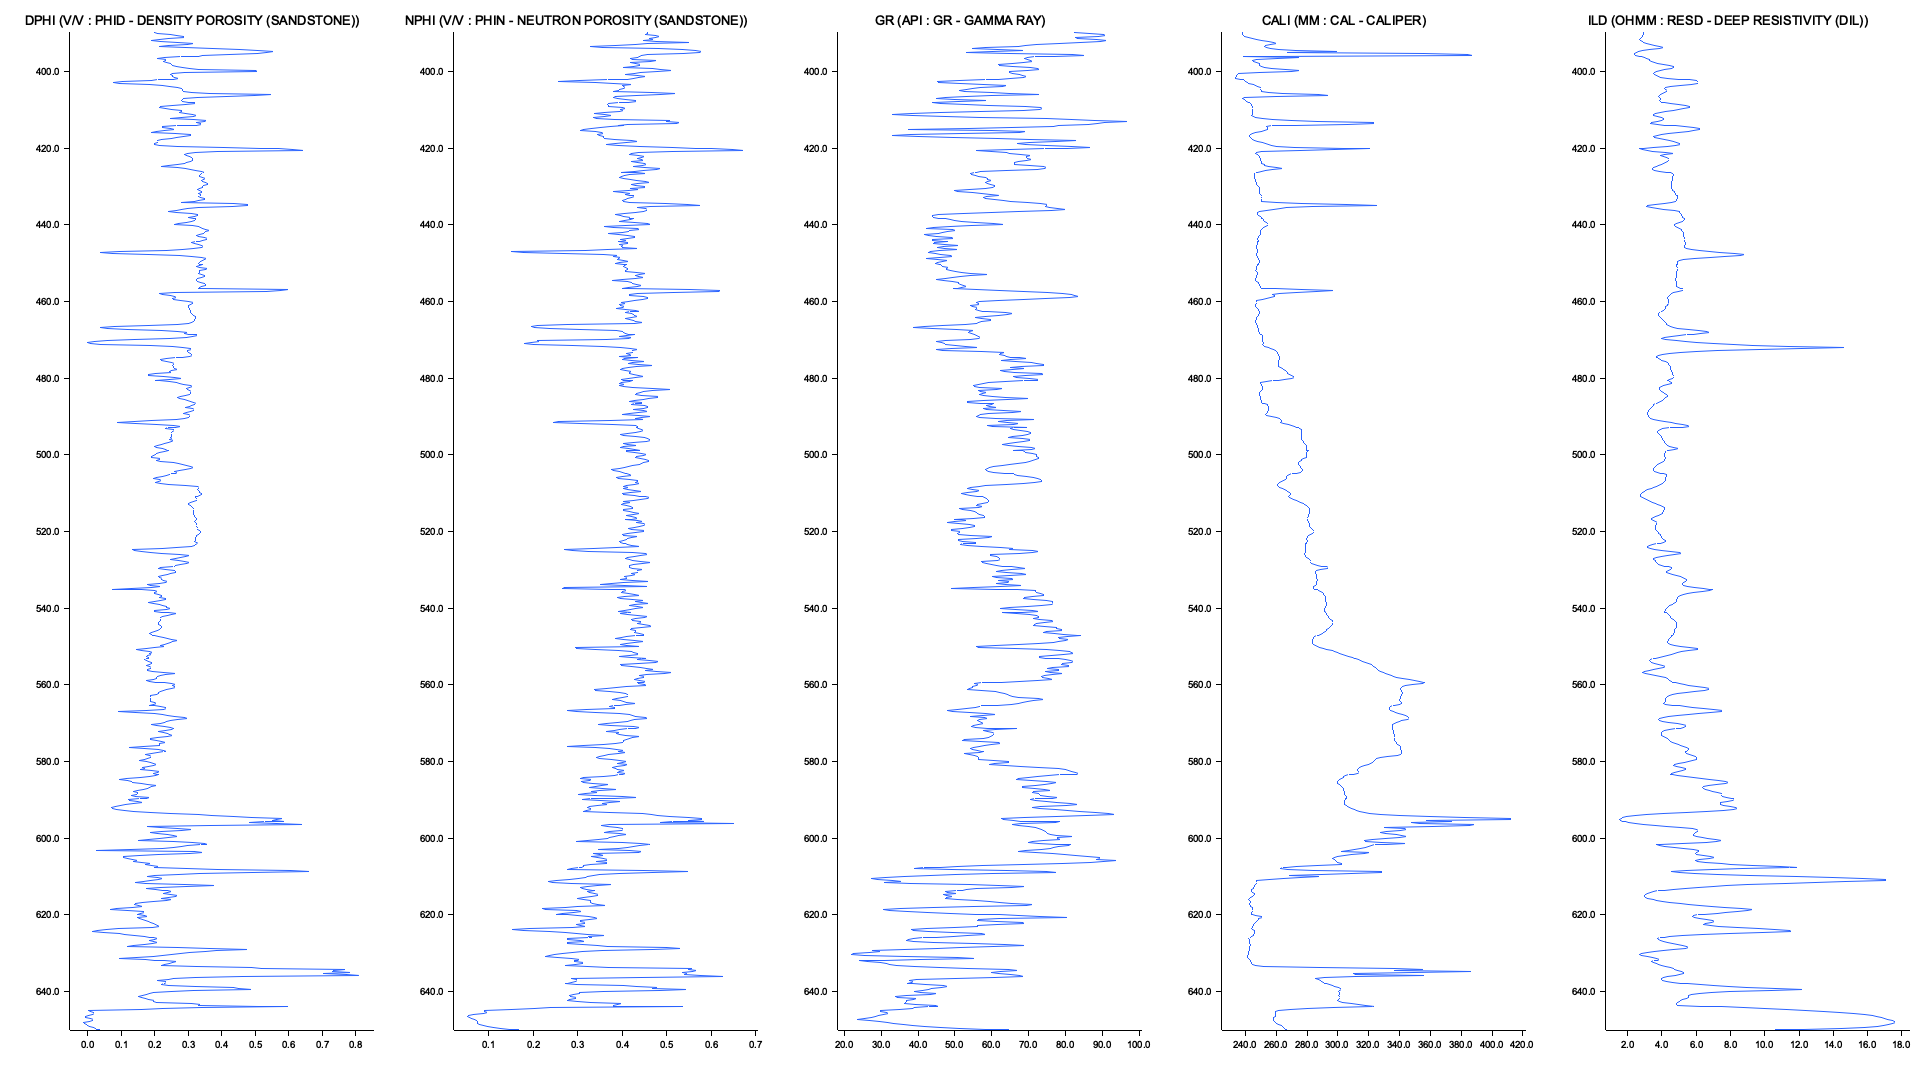
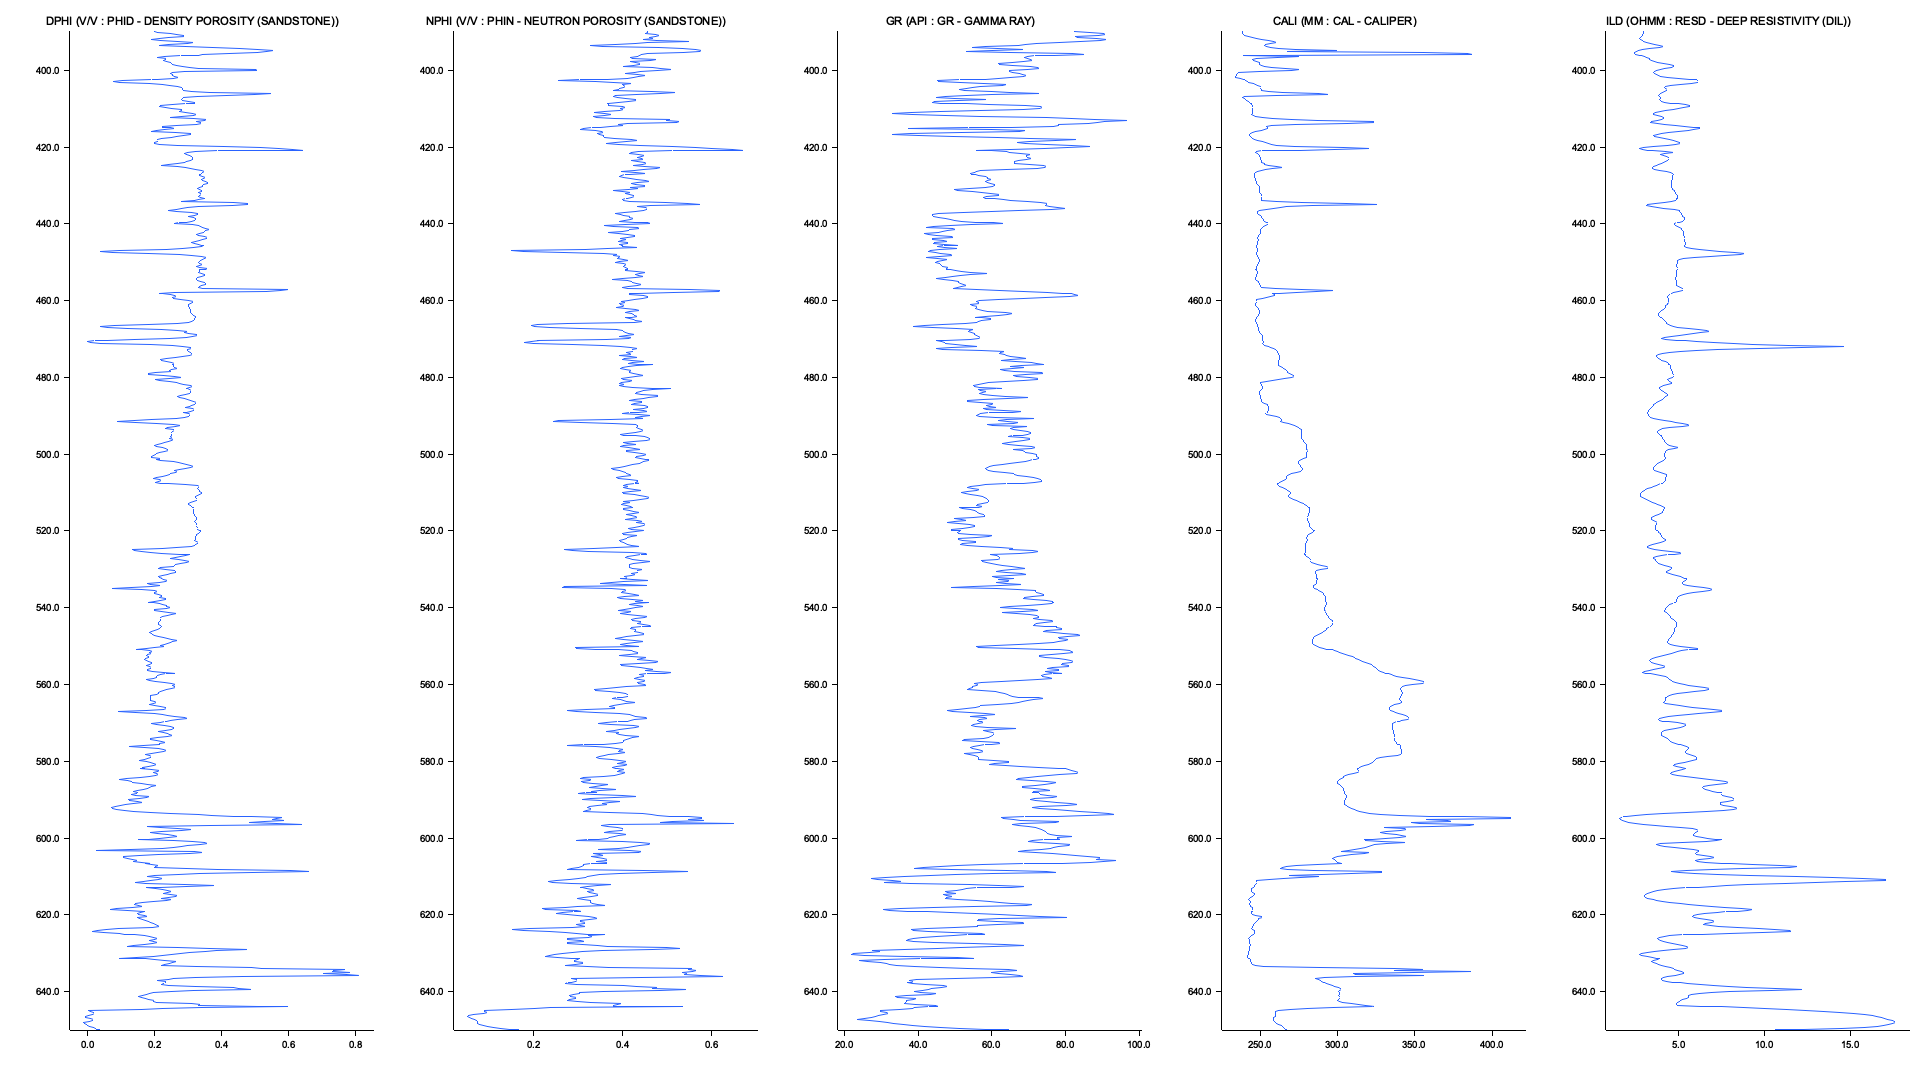
parse comments

diff --git a/src/tests/helpers.rs b/src/tests/helpers.rs
@@ -45,11 +45,13 @@ pub(crate) fn plot_curves(las: &LasFile) -> Vec<PlotCurve> {
                 .find(|c| c.mnemonic == *mnemonic)
                 .and_then(|c| {
                     if c.unit.is_some() && c.description.is_some() {
-                        return Some(format!(
+                        let s = format!(
                             "{} : {}",
                             c.unit.clone().expect("is_some"),
                             c.description.clone().expect("is_some")
-                        ));
+                        );
+                        let s = s.split_whitespace().collect::<Vec<_>>().join(" ");
+                        return Some(s);
                     }
                     None
                 });
@@ -92,7 +94,7 @@ pub(crate) fn x_range_for_curve(las: &LasFile, col_idx: usize, pad_frac: f64) ->
 }
 
 /// Plot LAS file to PNG
-pub(crate) fn plot_las(las: &LasFile, output: &str) -> Result<(), Box<dyn std::error::Error>> {
+pub(crate) fn _plot_las_old(las: &LasFile, output: &str) -> Result<(), Box<dyn std::error::Error>> {
     let depths = depths(las);
     let curves = plot_curves(las);
 
@@ -129,7 +131,7 @@ pub(crate) fn plot_las(las: &LasFile, output: &str) -> Result<(), Box<dyn std::e
                 format!(
                     "{}{}",
                     curve.mnemonic,
-                    curve.unit.as_deref().map(|u| format!(" ({u})")).unwrap_or_default()
+                    curve.unit.as_deref().map(|u| format!(" ({u})")).unwrap_or_default(),
                 ),
                 ("sans-serif", 16),
             )
@@ -152,10 +154,93 @@ pub(crate) fn plot_las(las: &LasFile, output: &str) -> Result<(), Box<dyn std::e
     Ok(())
 }
 
+pub(crate) fn plot_las(las: &LasFile, output: &str, curves_per_row: usize) -> Result<(), Box<dyn std::error::Error>> {
+    let depths = depths(las);
+    let curves = plot_curves(las);
+
+    if depths.is_empty() || curves.is_empty() {
+        return Ok(());
+    }
+
+    let depth_min = *depths.first().unwrap();
+    let depth_max = *depths.last().unwrap();
+
+    let root = BitMapBackend::new(output, (1920, 1080)).into_drawing_area();
+    root.fill(&WHITE)?;
+
+    let num_rows = curves.len().div_ceil(curves_per_row);
+
+    // Split vertically into rows
+    let row_areas = root.split_evenly((num_rows, 1));
+
+    let null_value = match las.well_information.null.value {
+        Some(LasValue::Float(v)) => v,
+        Some(LasValue::Int(v)) => v as f64,
+        _ => unreachable!(),
+    };
+
+    for (row_idx, row_area) in row_areas.into_iter().enumerate() {
+        let start = row_idx * curves_per_row;
+        let end = (start + curves_per_row).min(curves.len());
+        let row_curves = &curves[start..end];
+
+        // IMPORTANT: split this row into EXACTLY the number of curves it has
+        let track_areas = row_area.split_evenly((1, row_curves.len()));
+
+        for (area, curve) in track_areas.into_iter().zip(row_curves.iter()) {
+            let x_range = match x_range_for_curve(las, curve.col_idx, 0.05) {
+                Some(r) => r,
+                None => continue,
+            };
+
+            let mut chart = ChartBuilder::on(&area)
+                .margin(10)
+                .set_label_area_size(LabelAreaPosition::Left, 60)
+                .set_label_area_size(LabelAreaPosition::Bottom, 40)
+                .caption(
+                    format!(
+                        "{}{}",
+                        curve.mnemonic,
+                        curve.unit.as_deref().map(|u| format!(" ({u})")).unwrap_or_default()
+                    ),
+                    ("sans-serif", 14),
+                )
+                .build_cartesian_2d(
+                    x_range,
+                    depth_max..depth_min, // depth increases downward
+                )?;
+
+            chart.configure_mesh().disable_mesh().x_labels(6).y_labels(15).draw()?;
+
+            let series = las.ascii_log_data.rows.iter().filter_map(|row| {
+                let v = row[curve.col_idx];
+                if v == null_value { None } else { Some((v, row[0])) }
+            });
+
+            chart.draw_series(LineSeries::new(
+                series,
+                ShapeStyle {
+                    color: BLUE_A700.to_rgba(),
+                    filled: false,
+                    stroke_width: 1,
+                },
+            ))?;
+        }
+    }
+
+    root.present()?;
+    Ok(())
+}
+
 // Helper - put at bottom to not take up space
 pub(crate) fn _print_parsed_las_file(parsed_file: &ParsedFile) {
     for section in &parsed_file.sections {
         println!("{:?}", section.header.kind);
+        if let Some(comments) = section.comments.as_ref() {
+            for comment in comments {
+                println!("\t{comment}");
+            }
+        }
         for entry in &section.entries {
             println!("\t{entry:?}");
         }

diff --git a/src/parser.rs b/src/parser.rs
@@ -34,6 +34,7 @@ where
     current_section: Option<Section>,
     state: ParserState,
     parsed_sections: HashMap<SectionKind, usize>,
+    comments: Option<Vec<String>>,
 }
 
 impl<I> LasParser<I>
@@ -46,6 +47,7 @@ where
             current_section: None,
             state: ParserState::Start,
             parsed_sections: HashMap::new(),
+            comments: None,
         }
     }
 
@@ -68,7 +70,7 @@ where
                 // We are parsing a data line within a section.
                 LasToken::DataLine { raw, line_number } => {
                     if let Some(section) = self.current_section.as_mut() {
-                        section.parse_line(&raw, line_number)?;
+                        section.parse_line(&raw, line_number, self.comments.take())?;
                     }
                 }
 
@@ -76,6 +78,8 @@ where
                 LasToken::SectionHeader { name, line_number } => {
                     let mut next_section = Section::new(name.to_string(), line_number);
                     let kind = next_section.header.kind;
+
+                    next_section.comments = self.comments.take();
 
                     // Version information section must be first!
                     if self.state == ParserState::Start && kind != SectionKind::Version {
@@ -114,8 +118,11 @@ where
                     self.current_section = Some(next_section);
                 }
 
-                // TODO : parse comments
-                _ => {}
+                LasToken::Comment { text, .. } => {
+                    self.comments
+                        .get_or_insert_with(Vec::new)
+                        .push(format!("# {text}").trim().to_string());
+                }
             }
         }
 
@@ -196,13 +203,21 @@ impl Section {
         }
     }
 
-    pub fn parse_line(&mut self, raw: &str, line_number: usize) -> Result<(), ParseError> {
+    pub fn parse_line(
+        &mut self,
+        raw: &str,
+        line_number: usize,
+        comments: Option<Vec<String>>,
+    ) -> Result<(), ParseError> {
         if self.header.kind == SectionKind::AsciiLogData {
             return self.parse_ascii_log_line(raw, line_number);
         }
 
         if self.header.kind == SectionKind::Other {
-            self.entries.push(SectionEntry::Raw(raw.trim().to_string()));
+            self.entries.push(SectionEntry::Raw {
+                text: raw.trim().to_string(),
+                comments,
+            });
             return Ok(());
         }
 
@@ -292,6 +307,7 @@ impl Section {
         }
 
         self.entries.push(SectionEntry::Delimited(KeyValueData {
+            comments,
             value,
             unit: unit.filter(|u| !u.is_empty()),
             description: description.filter(|d| !d.is_empty()),
@@ -430,8 +446,14 @@ impl From<&str> for SectionKind {
 #[allow(dead_code)]
 pub(crate) enum SectionEntry {
     Delimited(KeyValueData),
-    AsciiRow(Vec<f64>),
-    Raw(String),
+    AsciiRow {
+        data: Vec<f64>,
+        comments: Option<Vec<String>>,
+    },
+    Raw {
+        text: String,
+        comments: Option<Vec<String>>,
+    },
 }
 
 // The sections "VERSION", "WELL", "CURVE" and "PARAMETER" use line delimiters.
@@ -441,6 +463,7 @@ pub struct KeyValueData {
     pub unit: Option<String>,
     pub value: Option<LasValue>,
     pub description: Option<String>,
+    pub comments: Option<Vec<String>>,
 }
 
 #[derive(Debug, Clone, Serialize, Deserialize)]

diff --git a/src/sections.rs b/src/sections.rs
@@ -73,9 +73,14 @@ impl TryFrom<Section> for VersionInformation {
 // --------------------------------------------------------------------------------
 
 #[derive(Debug, Default, Clone, Serialize, Deserialize)]
-pub struct OtherInformation {
+pub struct OtherInformationData {
     pub text: String,
     pub comments: Option<Vec<String>>,
+}
+
+#[derive(Debug, Default, Clone, Serialize, Deserialize)]
+pub struct OtherInformation {
+    pub data: Vec<OtherInformationData>,
     pub(crate) line_number: usize,
 }
 
@@ -93,12 +98,11 @@ impl TryFrom<Section> for OtherInformation {
         let mut other = OtherInformation::default();
 
         for entry in section.entries {
-            if let SectionEntry::Raw(s) = entry {
-                other.text += format!("{s}\n").as_str();
+            if let SectionEntry::Raw { text, comments } = entry {
+                other.data.push(OtherInformationData { text, comments });
             }
         }
 
-        other.comments = section.comments;
         other.line_number = section.line;
         Ok(other)
     }

diff --git a/src/tests/mod.rs b/src/tests/mod.rs
@@ -21,6 +21,7 @@ fn test_parsed_file_to_las_file() {
 fn test_good_sample() {
     let file_path = "las_files/_good_sample_1.las";
     let _parsed = parse_las_file(open_file(file_path)).unwrap();
+    _print_parsed_las_file(&_parsed);
 }
 
 #[test]
@@ -53,11 +54,12 @@ fn test_no_space_before_last_colon() {
 
 #[test]
 #[ignore = "for generating plots"]
+// run with 'cargo nextest run test_plotting --lib --nocapture --run-ignored=only'
 fn test_plotting() {
-    let file_name = "4771-36-SESE.las";
+    let file_name = "00-01-01-073-05W5-0.las";
     let file_path = &format!("las_files/{file_name}");
     let output_plot_png = &format!("./plots/{file_name}.png");
     let _parsed = parse_las_file(open_file(file_path)).unwrap();
     let las_file = LasFile::try_from(_parsed).unwrap();
-    plot_las(&las_file, output_plot_png).expect("plot");
+    plot_las(&las_file, output_plot_png, 5).expect("plot");
 }

diff --git a/src/lib.rs b/src/lib.rs
@@ -9,7 +9,8 @@ mod tokenizer;
 pub use errors::*;
 pub use parser::*;
 pub use sections::*;
-pub use tokenizer::*;
+
+pub(crate) use tokenizer::*;
 
 use serde::{self, Deserialize, Serialize};
 use std::{fs::File, io::BufReader};

diff --git a/src/tokenizer.rs b/src/tokenizer.rs
@@ -81,6 +81,7 @@ pub enum LasToken {
     },
     Comment {
         text: String,
+        #[allow(dead_code)]
         line_number: usize,
     },
     DataLine {

diff --git a/examples/from_readme/main.rs b/examples/from_readme/main.rs
@@ -1,4 +1,4 @@
-use liblas::ParseError;
+use liblas::{LasFile, ParseError};
 
 fn main() -> Result<(), ParseError> {
     Ok(())
